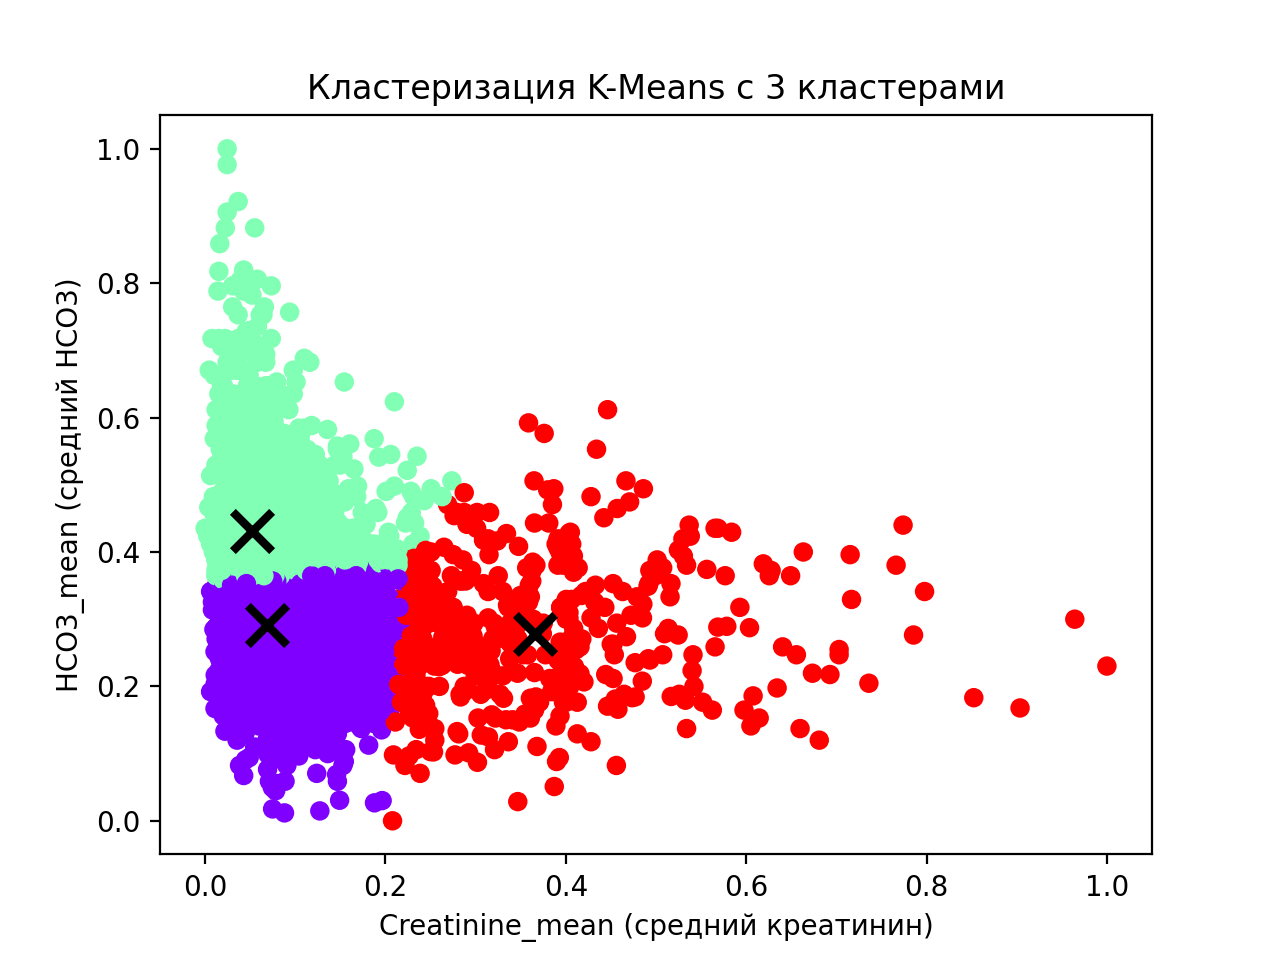
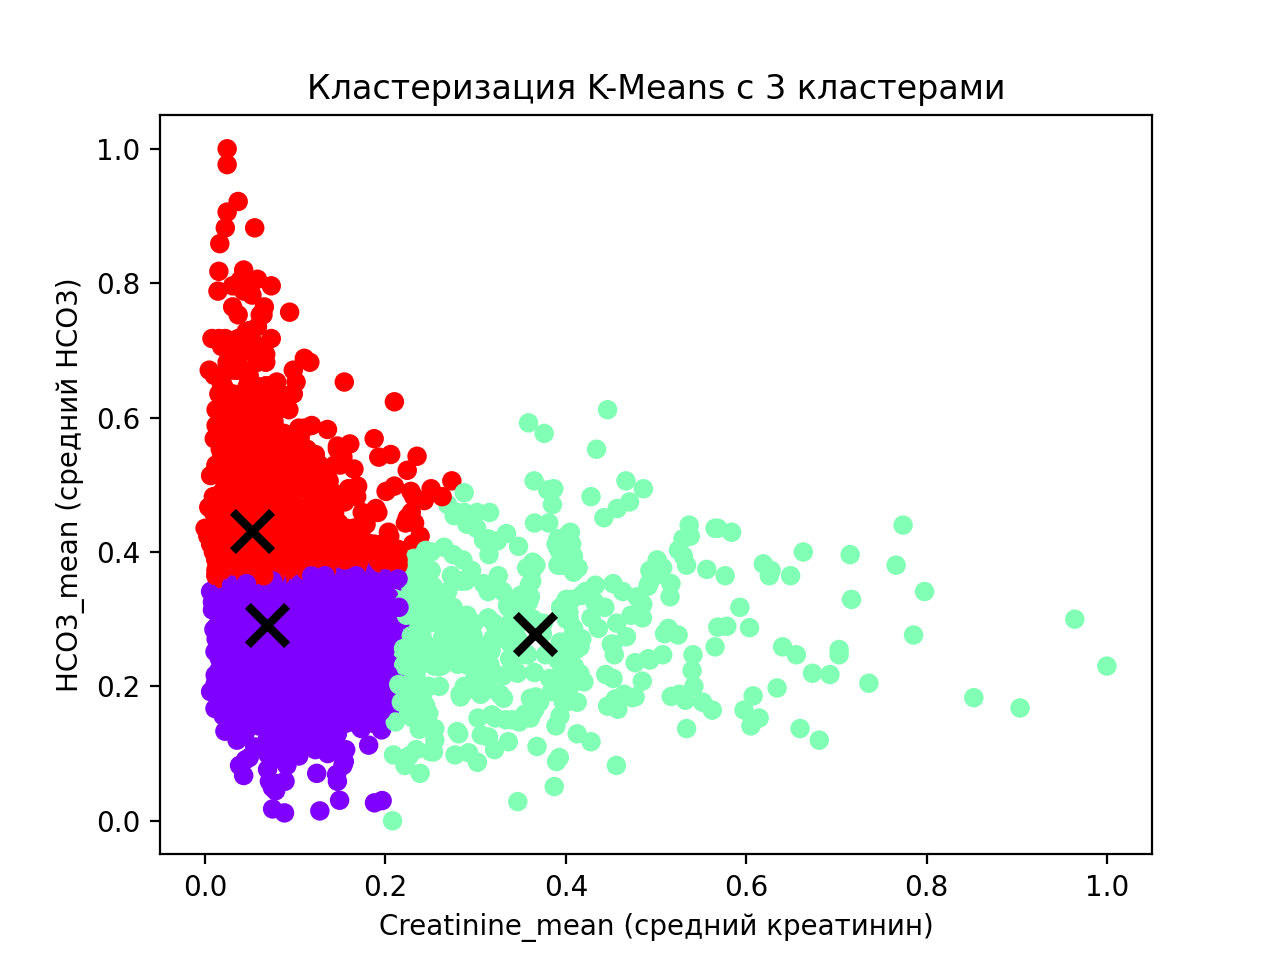
Fix

diff --git a/program_c/main.py b/program_c/main.py
@@ -67,6 +67,7 @@ def perform_clustering_and_evaluation(data, n_clusters_list, thread_counts):
                   f" | Индекс Данна: {dunn}")
 
         # Визуализация кластеров
+        plt.clf()  # Очищаем текущую фигуру
         plt.scatter(data[:, 0], data[:, 1], c=labels, cmap='rainbow')
         plt.scatter(centroids[:, 0], centroids[:, 1], marker='x', s=200, linewidths=3, color='black')
         plt.title(f'Кластеризация K-Means с {n_clusters} кластерами')
@@ -81,9 +82,9 @@ def perform_clustering_and_evaluation(data, n_clusters_list, thread_counts):
 def program_c():
     csv_file_path = "BD-Patients.csv"
     n_clusters_list = [3, 4, 5]
-    thread_counts = [2, 4, 6, 8, 10, 12, 14, 16]
+    thread_counts = [2, 4]
 
-    print(f"Начало работы Программы Б...\n")
+    print(f"Начало работы Программы С...\n")
     data = load_and_preprocess_data(csv_file_path)
     perform_clustering_and_evaluation(data, n_clusters_list, thread_counts)
 
